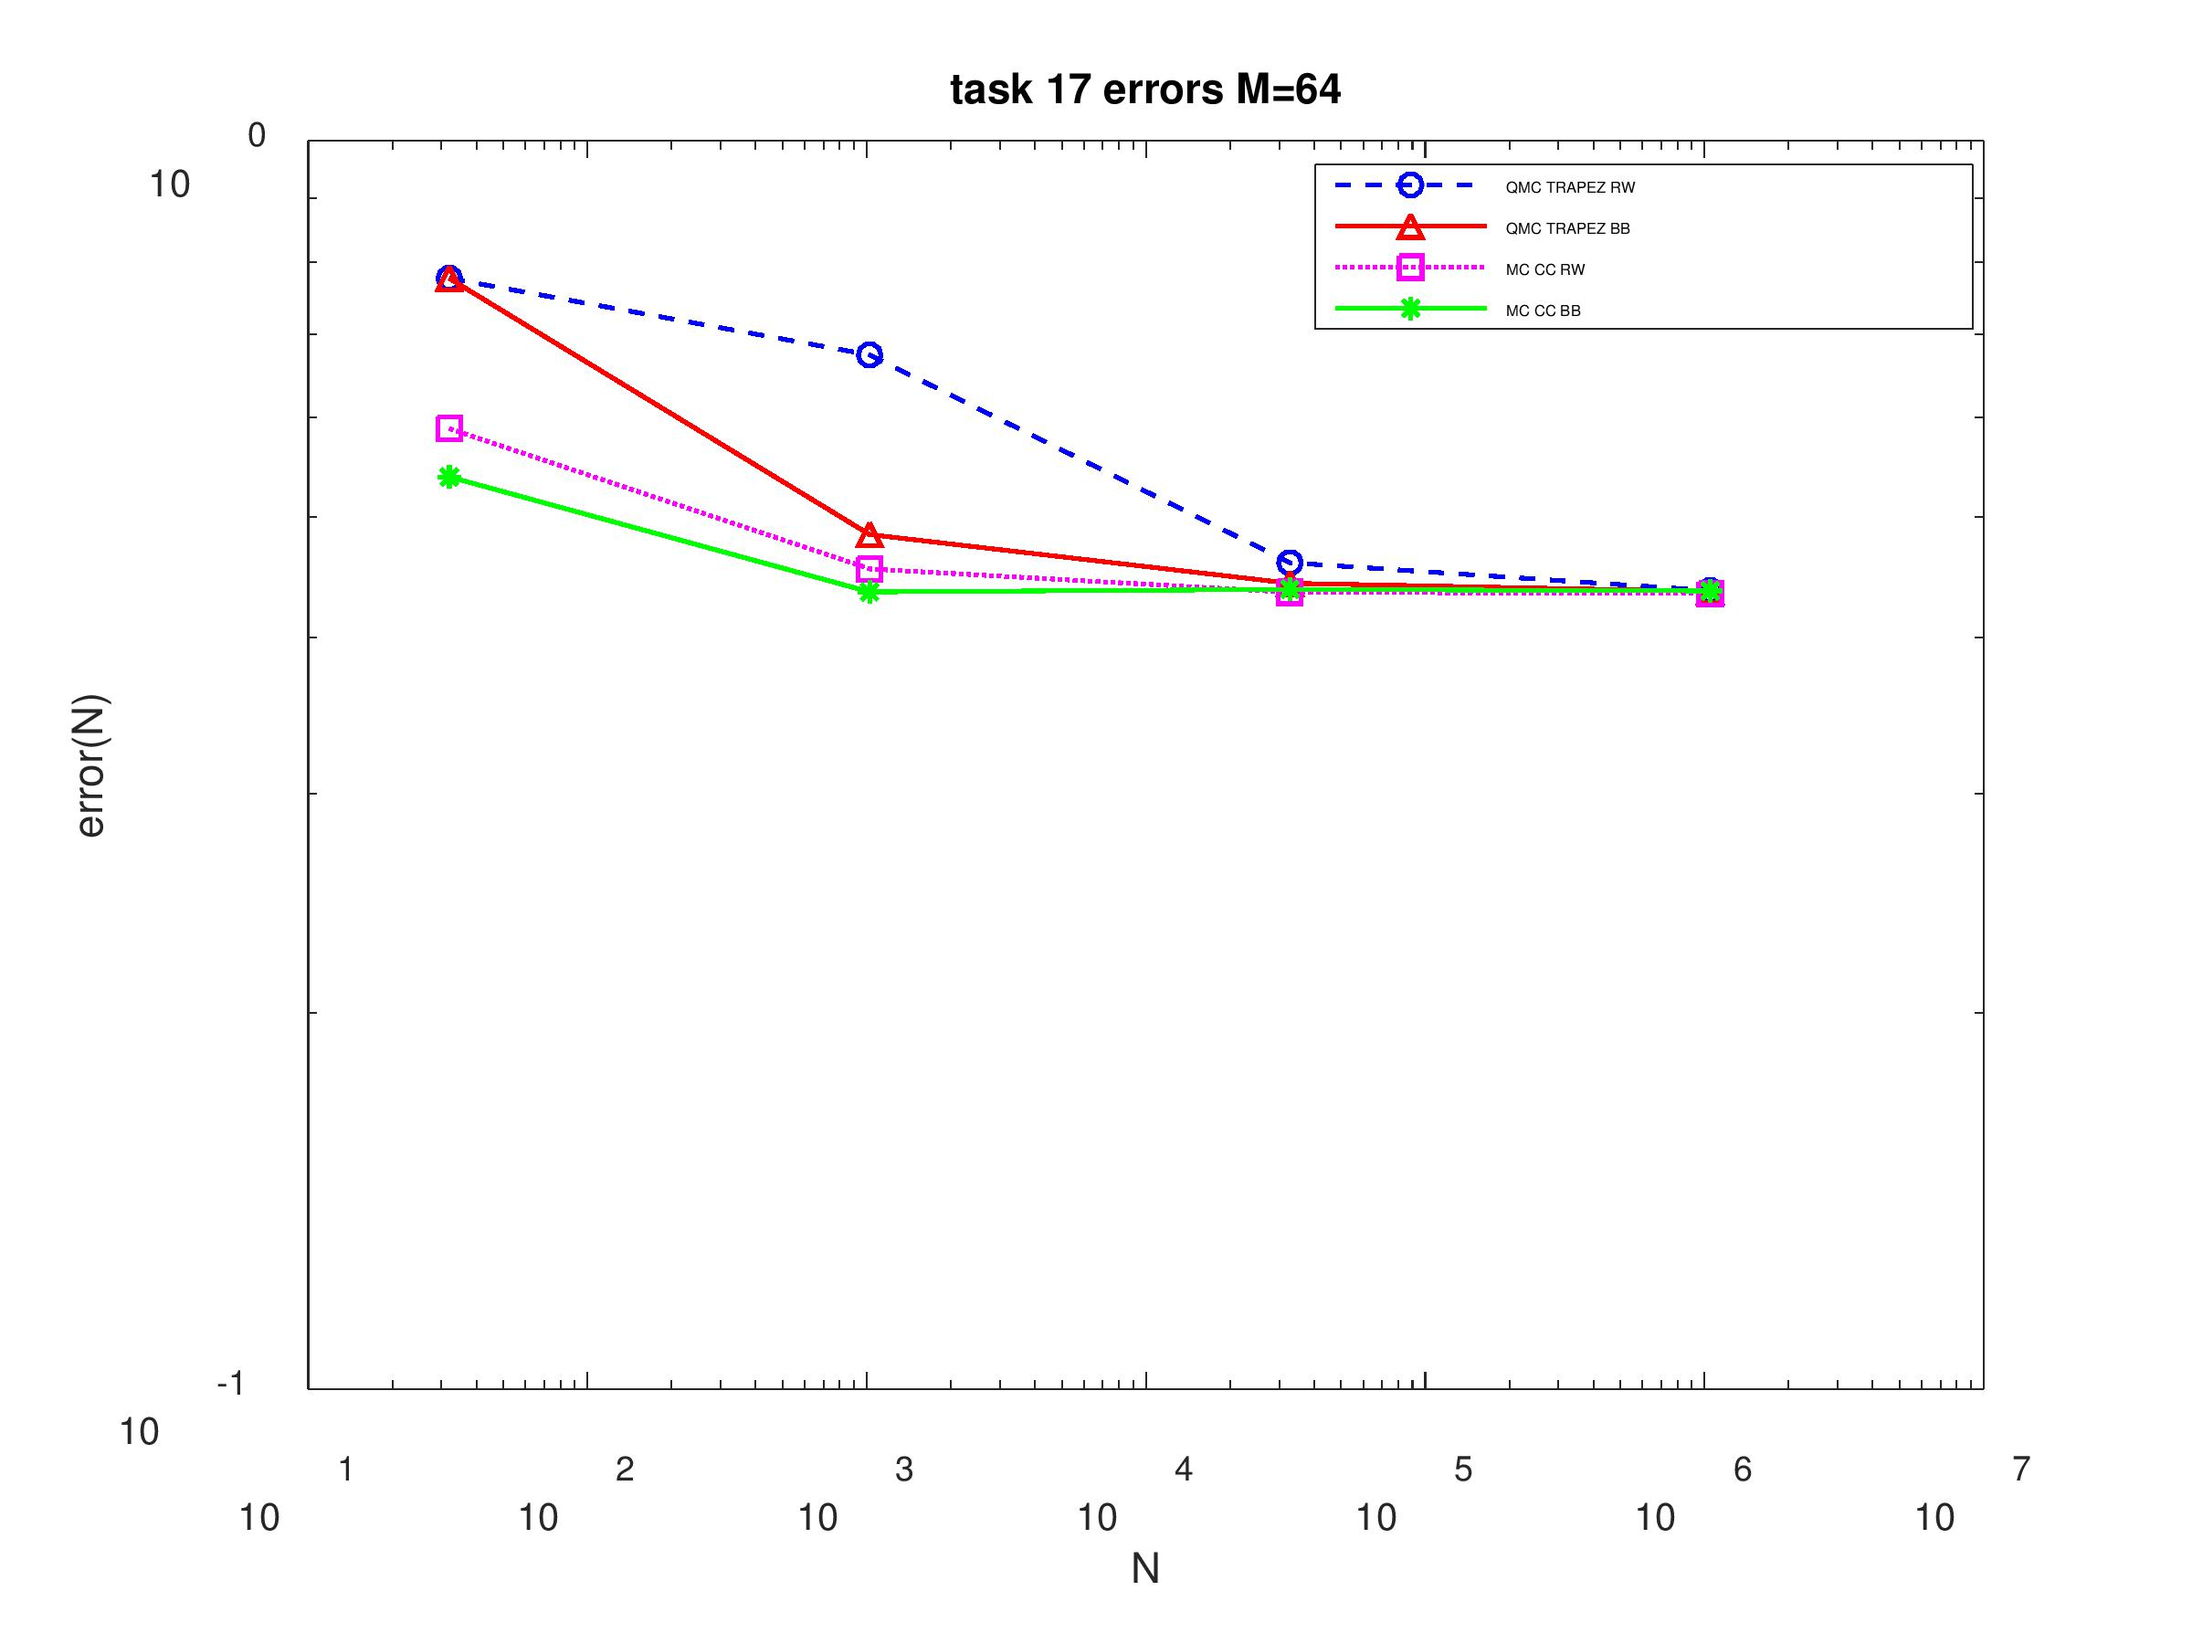
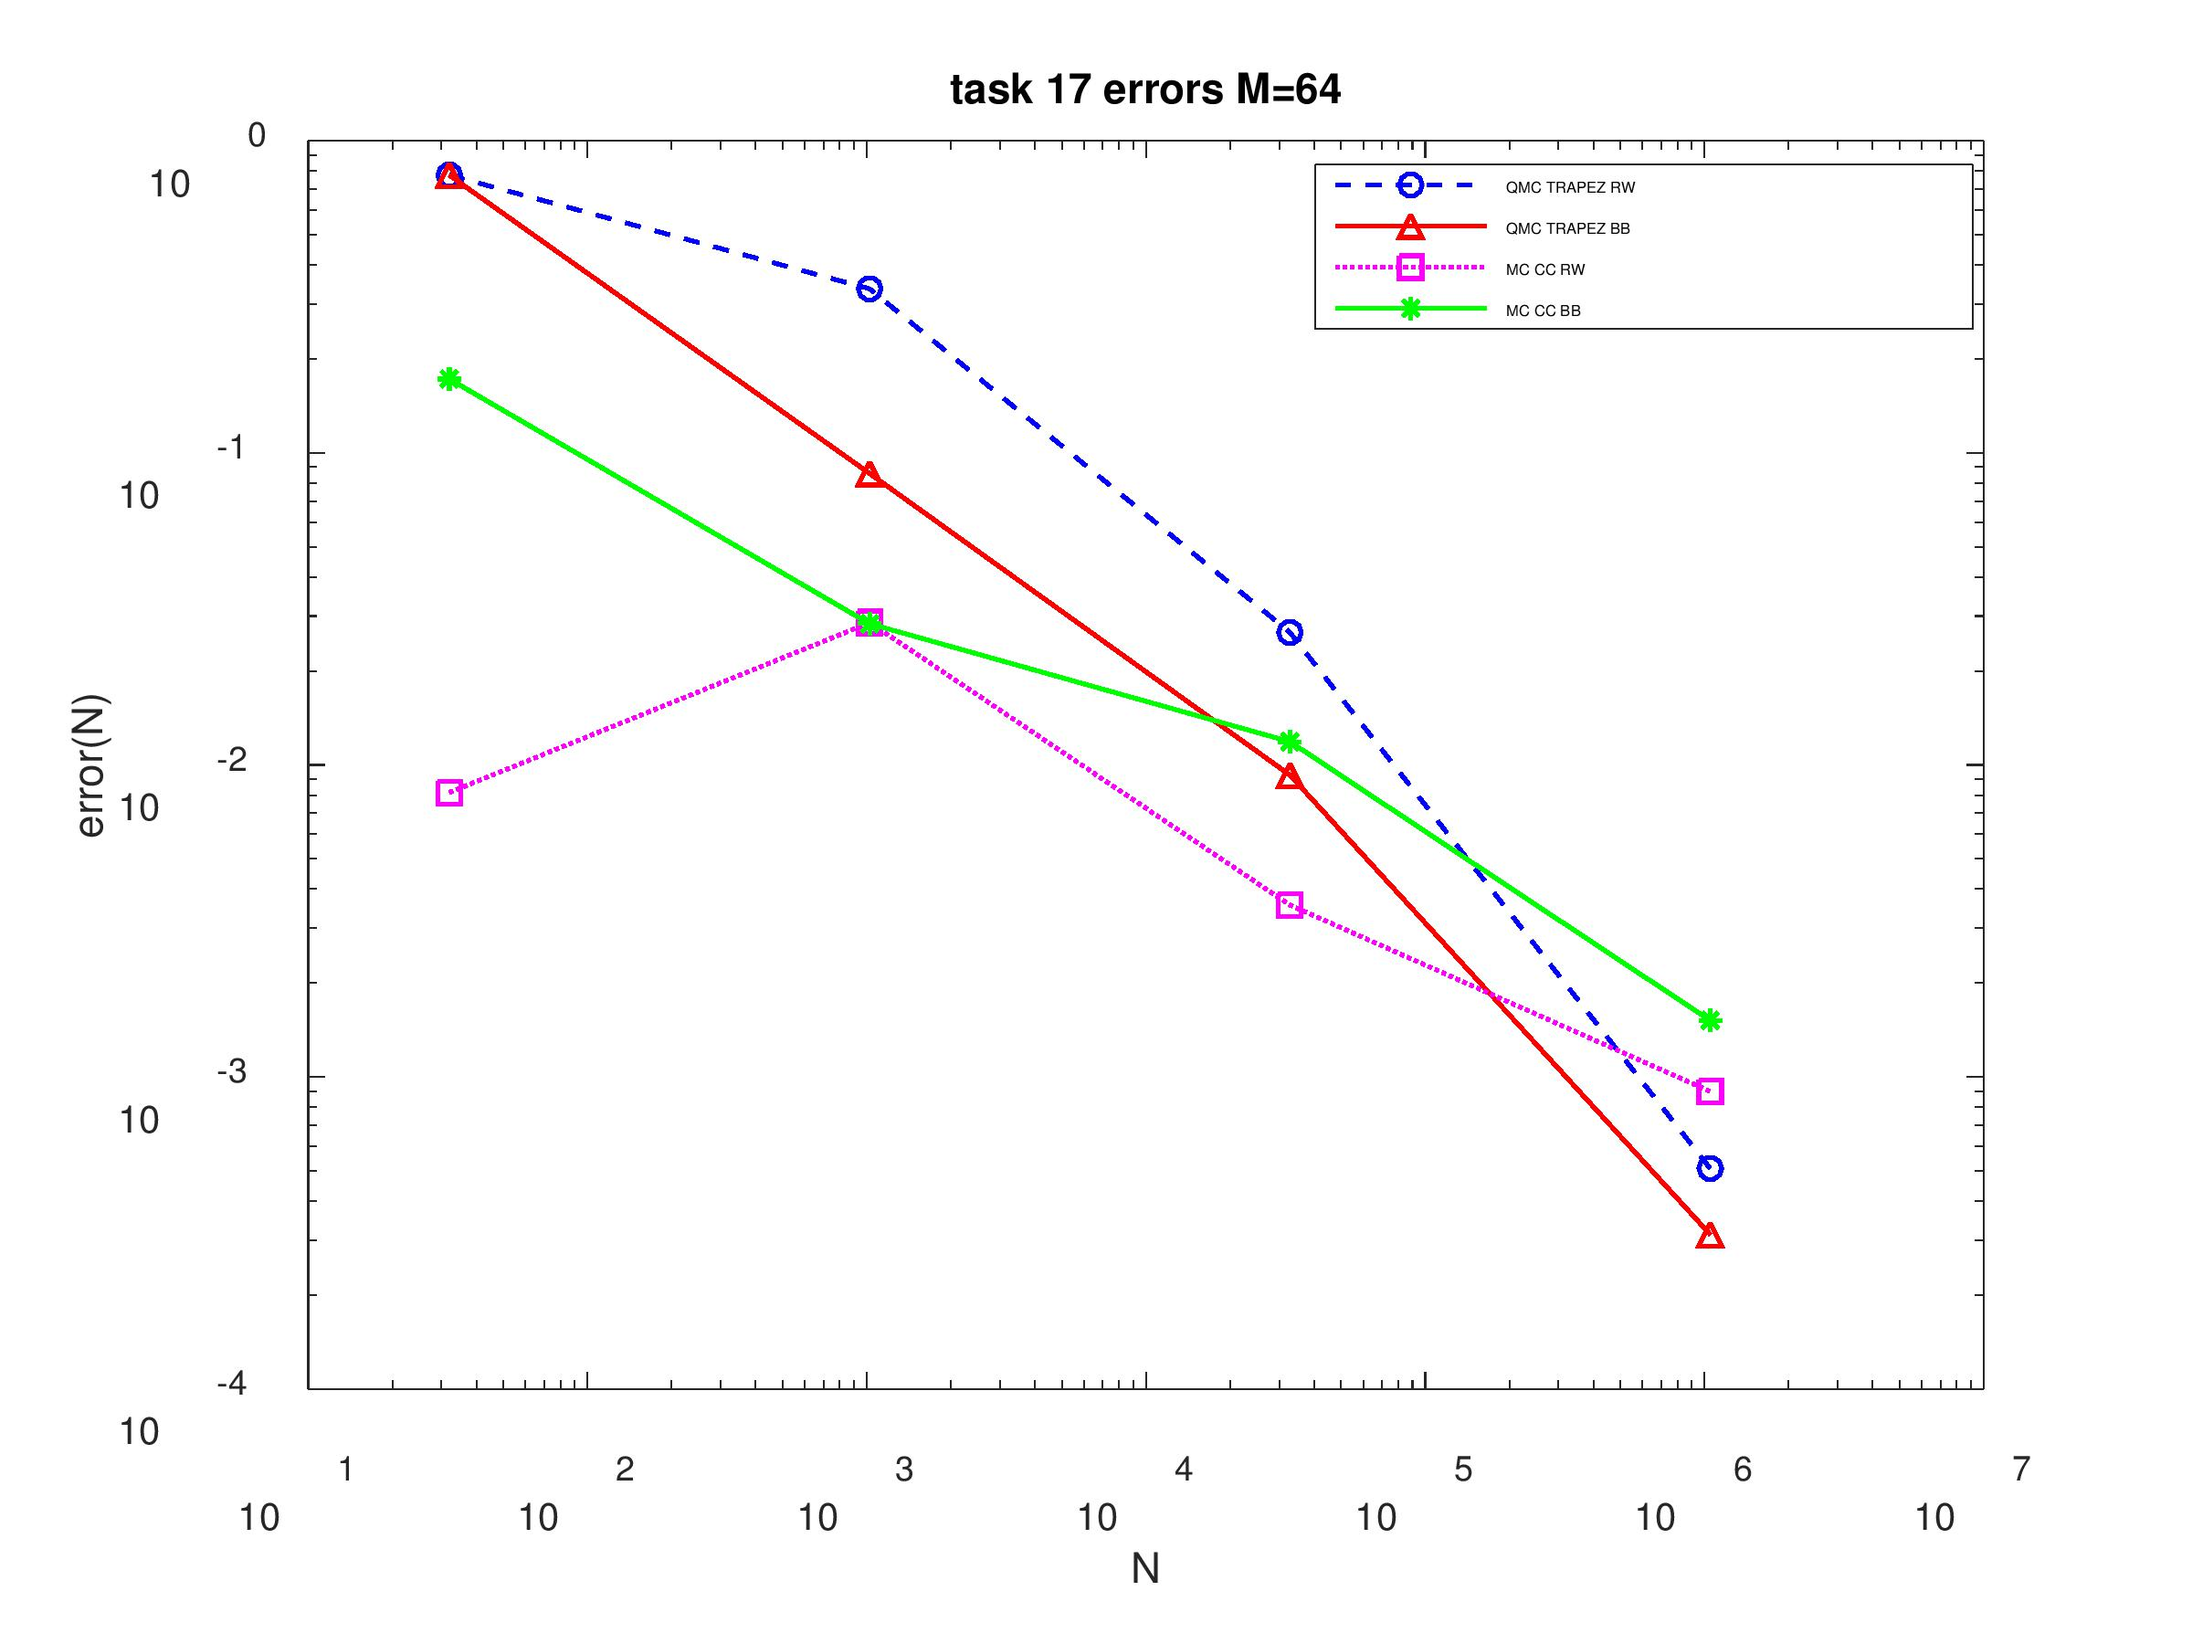
update

diff --git a/Final/header_files/multivariate_integration.cpp b/Final/header_files/multivariate_integration.cpp
@@ -314,7 +314,7 @@ double asian_option_call_integrand(std::vector<double>* x,double S0,double K, do
     };
     
     
-    result = exp(-mu*T)*pow(result,1./M)-K;
+    result = exp(-mu*T)*(pow(result,1./M)-K);
     if(result>0.0){
         return result;
     }
